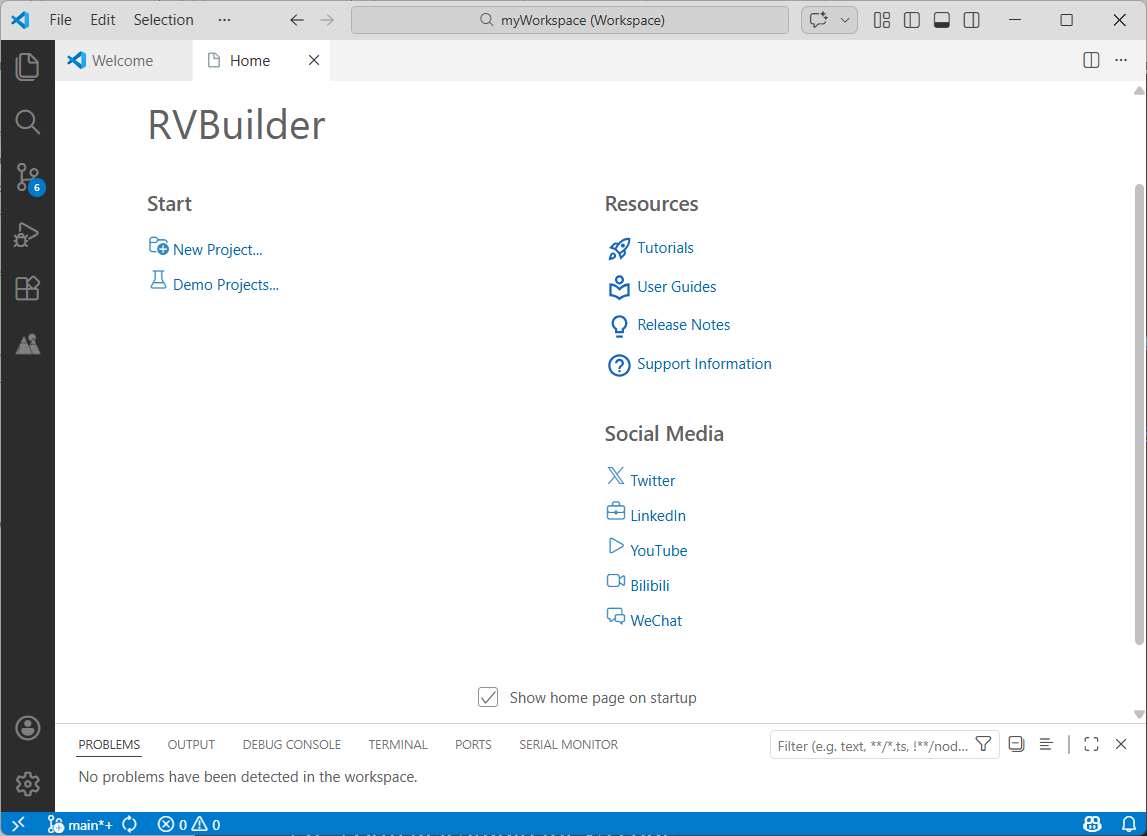
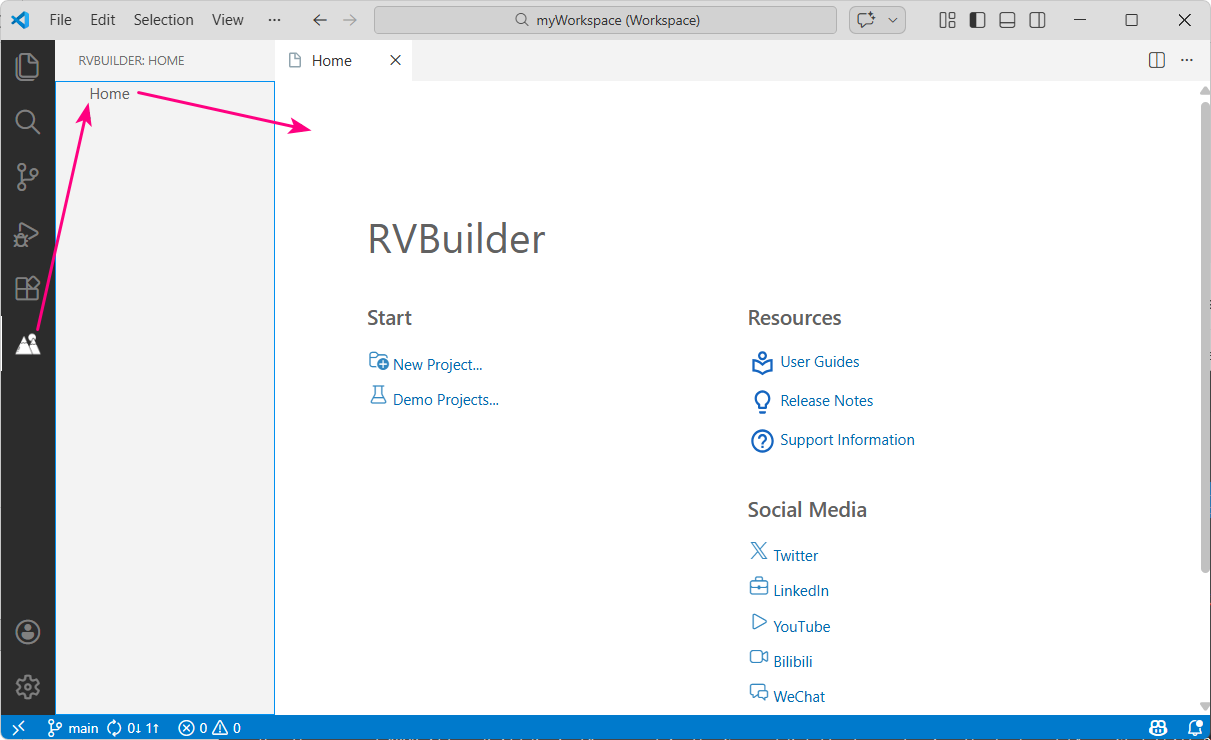
Modified installation description

diff --git a/docs/working.md b/docs/working.md
@@ -17,21 +17,21 @@ Click ![Setting wheel](./images/setting_wheel.png) at the bottom of the **Activi
 
 ### 1. RVBuilder Icon on the Activity Bar
 
-   The RVBuilder icon serves as the entry point to the RVBuilder view.
+   The RVBuilder icon serves as the entry point to the **RVBuilder** view.
 
 ### 2. RVBuilder View
 
-   This view provides access to the RVBuilder Home page.
+   This view provides access to the RVBuilder **Home** page.
 
 ### 3. RVBuilder Home Page
 
-   The RVBuilder Home page provides quick access to creating a new RVBuilder project or importing an RVBuilder demo project. It also includes links to reference documentation, technical support resources, and Andes Technology social media channels for developers who want to learn more.
+   The RVBuilder **Home** page provides quick access to creating a new RVBuilder project or importing an RVBuilder demo project. It also includes links to reference documentation, technical support resources, and Andes Technology social media channels for developers who want to learn more.
 
    ![RVBuilder Entry Interface](./images/Interface_entry.png)
 
 ### 4. RVBuilder Project Action Items 
 
-   RVBuilder enables a set of project-related operations through an RVBuilder project pull-down menu or the **Explorer** view title menu to streamline the development workflow. 
+   RVBuilder enables a set of project operations through an RVBuilder project pull-down menu or the **Explorer** view title menu to streamline the development workflow. 
 
    ![RVBuilder Porject Menu Items](./images/RVBuilder_project_pulldown_menu.png)
 
@@ -50,7 +50,7 @@ Click ![Setting wheel](./images/setting_wheel.png) at the bottom of the **Activi
 ## RVBuilder Settings in Workspace Configuration Files 
 An RVBuilder project, or an existing project applied with RVBuilder settings, includes preconfigured workspace settings required for development with Andes RISC-V targets. These settings are written to VS Code workspace configuration files in the `.vscode` folder under the project root directory. Among the files, pay attention to the following: 
 
-### `tasks.json`: Toolchain Executable Path
+### `tasks.json`
 For an RVBuilder project uses a custom Makefile (i.e., with an unchecked "Auto-Generate Makefile" option in its settings. See [**Auto Generate Makefile**](./project_config.md#auto-generate-makefile)), changing the project toolchain requires you to update the toolchain executable paths specified in this task configuration file. Otherwise, it may result in build errors. 
 
 Note that a toolchain change is typically triggered by a change in the selected chip profile. For more about toolchains in the RVBuilder package and their paths, see [**Toolchains**](./components.md#toolchains).
@@ -58,10 +58,13 @@ Note that a toolchain change is typically triggered by a change in the selected 
 ![Toolchain Path](./images/toolchain_path_in_tasks_file.png)
 
 
-### `launch.json`: Memory Map Setting  
+### `launch.json`
 Most target and program settings in this debug configuration file are configured automatically for RVBuilder projects. By default, 
 
 - the launch type is set to `rvbuilder-debug`.
 - the connection type and program specification are aligned with the project's target configuration and build settings. 
 - the `loadMemoryMap` setting is set to `true`, indicating the program executable is loaded according to the memory regions defined in the selected chip profile. If you want to load the program executable without applying the predefined memory mapping, set this setting to `false`.
-![Load Memory Map](./images/mem_map_in_launch.png)
+
+   ![Load Memory Map](./images/mem_map_in_launch.png)
+
+   

diff --git a/docs/Installation.md b/docs/Installation.md
@@ -6,16 +6,29 @@ This section outlines the system requirements and provides step-by-step instruct
 - **Software**: Visual Studio Code (version 1.82 or later) from [Microsoft Visual Studio Code](https://code.visualstudio.com/download)
 
 ## RVBuilder Installation
-1. In Visual Studio Code, click ![Extension](./images/extension.png) on the **Activity Bar**. 
-2. Enter `RVBuilder` in the search box to find the RVBuilder extension. 
-3. Select the "RVBuilder" extension and view its details on the right. Click **Install** to start installation.
-4. Upon the completion of the installation, the **RVBuilder** icon ![RVBuilder icon](./images/RVBuilder_icon.png) appears on the **Activity Bar**. In addition, the RVBuilder **Home** page that offers quick access to project creation and demo applications also opens automatically. This verifies the  successful installation. 
-![RVBuilder install verification](./images/RVBuilder_home.png)
+1. Download the RVBuilder extension package `rvbuilder-1.0.0.vsix` from the [Andes GitHub RVBuilder repository](https://github.com/andestech/rvbuilder).  
+2. In Visual Studio Code, click ![Extension](./images/extension.png) in the **Activity Bar**. 
+3. In the **Extensions** view, click the **More Actions** icon ![dots](./images/dots.png) in the top-right corner, select "Install from VSIX…" from the drop-down menu, and then choose the downloaded file `rvbuilder-1.0.0.vsix` to start the installation. 
+4. After the completion of installation, RVBuilder appears in the list of installed extensions in the **Extensions** view and the **RVBuilder** icon ![RVBuilder icon](./images/RVBuilder_icon.png) is displayed in the **Activity Bar**. These indicate that the installation was successful.
 
->---
+  ![RVBuilder install verification](./images/RVBuilder_install_verify.png)
+
+**TO-DO: Update RVbuilder_Install Verify screenshot - include RVbuilder icon and RVbuilder as installed extension** 
+
+
+
+---
  **Note**
 
-> - If you reinstall or update the RVBuilder extension, restart Visual Studio Code or reload its window to apply the changes. To reload VS Code window, press **F1**, type `Reload Window` in the Command Palette, select **Developer: Reload Window**, and press **Enter**.
-> - On Linux, a system password is required to grant RVBuilder permissions. After RVBuilder installation, follow the on-screen prompt to click **Run** and enter your system password.
+  - To reinstall or update the RVBuilder extension, uninstall the currently installed RVBuilder package before proceeding. The package installation path can be found in VS Code under **Settings > Extensions > RVBuilder** (User scope).  
+
+    ![RVBuilder Installation Path](./images/RVBuilder_install_path.png)
+
+     After reinstalling, restart VS Code or reload the window to apply the changes. To reload VS Code window, press **F1**, type `Reload Window` in the Command Palette, select **Developer: Reload Window**, and press **Enter**.
+
+  - On Linux, a system password is required to grant RVBuilder permissions. After RVBuilder installation, follow the on-screen prompt to click **Run** and enter your system password.
+
+    ![Notification for Linux installation](./images/notify_for_linux_install.png)
+    ![Linux installation password](./images/linux_install_pw.png)
 
 ---

diff --git a/docs/components.md b/docs/components.md
@@ -1,11 +1,11 @@
-# Components and Tools 
+## Components and Tools 
 RVBuilder includes a set of components and tools that support the complete software development workflow for Andes RISC-V–based targets. These components provide predefined configurations and utilities required throughout development, including target configuration files (Chip Profiles), toolchains, connection configurations, the Andes In-Circuit Emulator driver (ICEman), the Andes QEMU emulator, the Linker Script Generator (LdSaG), and flash programming utilities. 
 
 The integration of these components within VS Code enables you to manage build, run and debug workflows through a unified interface, eliminating the need for manual installation and configuration of individual components for the desired Andes RISC-V target.
 
 The following provide brief introduction to the key components and tools in the RVBuilder package.
 
-## Chip Profiles 
+### Chip Profiles 
 Chip profiles describe the specifications and software configuration of specific target platforms.
 RVBuilder provides a set of predefined chip profiles for Andes targets. Each chip profile contains the required software settings for the corresponding target, such as 
 - the preferred toolchain
@@ -29,7 +29,7 @@ For more information, see [AndesCore™ Processors](https://www.andestech.com/en
 
 Examples of chip profiles within the RVBuilder Package: ADP-AE250-N25F, ADP-AE350-NX45-RVB, ADP-AE350-AX46MPV-SMP and more. 
 
-## Toolchains
+### Toolchains
 The RVBuilder package provides two toolchains, `nds32le-elf-newlib-v5` and `nds64le-elf-newlib-v5`, for software development on Andes RISC-V targets.
 
 The toolchain naming convention denotes the following:
@@ -43,19 +43,17 @@ The toolchain naming convention denotes the following:
 The appropriate toolchain for a specific Andes target is predefined in the associated chip profile and does not require manual selection. However, for RVBuilder projects that use a custom Makefile, you must update the target-related settings and toolchain paths in `tasks.json` after switching to a target (chip profile) with a different architecture (e.g. changing from 32-bit to 64-bit). The toolchain executable path is located at `${RVBUILDER_PACKAGE_ROOT}/toolchains/${TOOLCHAIN}/bin/`. 
 
 
-## Connection Configurations 
+### Connection Configurations 
 
 AICE, Andes QEMU, maverick, GDB server 
 
-###  ICEman
+#### ICEman
 
-###   
+####    
 
-## Linker Script Generator (LdSaG)
+### Linker Script Generator (LdSaG)
 
-
-
-## Flash Burners 
+### Flash Burners 
 
 
 

diff --git a/docs/project_create.md b/docs/project_create.md
@@ -19,7 +19,7 @@ For an existing non-RVBuilder project, RVBuilder settings can be added to enable
 
 2. In the **Explorer** view, select the interested project folder. Next, click any [RVBuilder project action item](./working.md#4-rvbuilder-project-action-items) from either the project context menu or the **Explorer** view title menu.
 
-    For example, select an existing 'hello' project and click **RVBuilder: Settings** on the Explore view title menu.
+    For example, select an existing "hello" project and click **RVBuilder: Settings** on the **Explore** view title menu.
     ![Add RVBuilder Settings](./images/add_rvbuilder_setting.png)
 
 3. A notification dialog appears indicating that the selected project is not yet configured for RVBuilder development. Click **Yes** to add the required RVBuilder settings to the project.

diff --git a/docs/project_build.md b/docs/project_build.md
@@ -12,7 +12,7 @@ With the project selected in the **Explorer** view, use either of the following 
  - On the **Explorer** view title menu, click ![Build icon](./images/build_icon.png) (RVBuilder: Build Project).  
     ![project build 3](./images/build_from_title_menu.png)
 
- - In the Command Palette (opened using the keyboard F1 or Ctrl+Shift+P), use the  "RVBuilder: Build Project" command.  
+ - In the Command Palette (opened using the keyboard F1 or Ctrl+Shift+P), use the "RVBuilder: Build Project" command.  
     ![project build 4](./images/build_from_command_palette.png)
 
  ---
